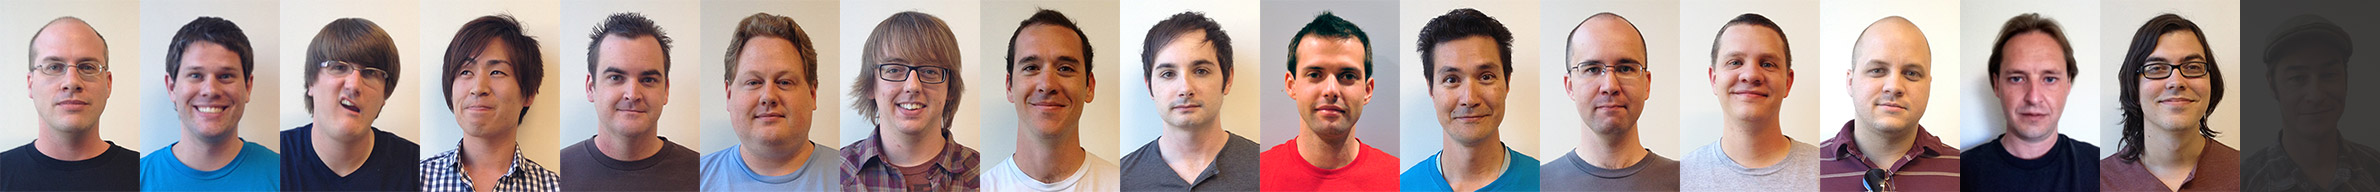
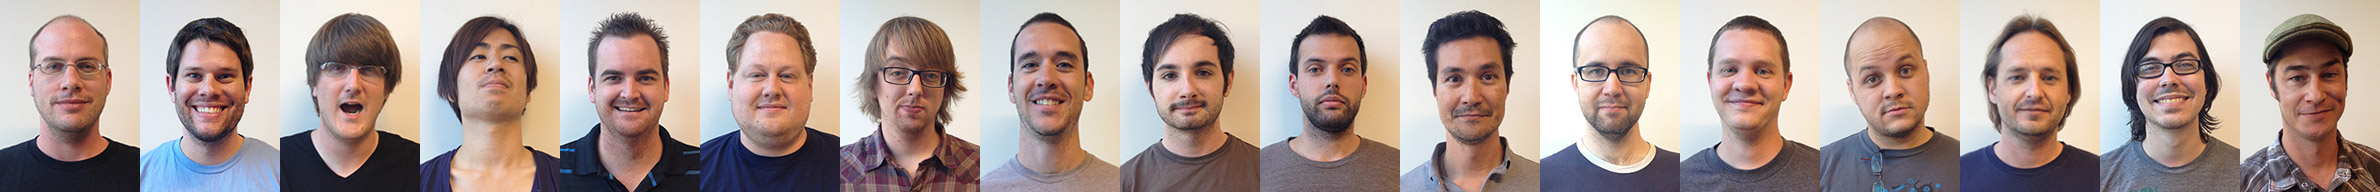
changing week numbers

diff --git a/css/global.css b/css/global.css
@@ -52,19 +52,19 @@ h2 {
 
 h1 span, h2 span { font-weight: 600; }
 
-#week1 h2 {
+#week0 h2 {
   background: -moz-linear-gradient(left, #341856 0%, #341856 4%, #8e58a4 46%, #8e58a4 58%, #341856 100%);
   background: -webkit-linear-gradient(left, #341856 0%,#341856 4%,#8e58a4 46%,#8e58a4 58%,#341856 100%);
   background: linear-gradient(to right, #341856 0%,#341856 4%,#753d8c 46%,#8e58a4 58%,#8e58a4 100%);
 }
 
-#week2 h2 {
+#week1 h2 {
   background: -moz-linear-gradient(left, #b8321b 0%, #b8321b 4%, #de6d23 46%, #de6d23 58%, #b8321b 100%);
   background: -webkit-linear-gradient(left, #b8321b 0%,#b8321b 4%,#de6d23 46%,#de6d23 58%,#b8321b 100%);
   background: linear-gradient(to right, #b8321b 0%,#b8321b 4%,#b8321b 46%,#de6d23 58%,#de6d23 100%);
 }
 
-#week3 h2 {
+#week2 h2 {
   background: -moz-linear-gradient(left, #05376f 0%, #05376f 4%, #206ec5 46%, #206ec5 58%, #05376f 100%);
   background: -webkit-linear-gradient(left, #05376f 0%,#05376f 4%,#206ec5 46%,#206ec5 58%,#05376f 100%);
   background: linear-gradient(to right, #05376f 0%,#05376f 4%,#05376f 46%,#206ec5 58%,#206ec5 100%);

diff --git a/index.html b/index.html
@@ -19,17 +19,17 @@
 
 <body>
 
-<section id="week3">
-  <a href="images/week3.jpg" title="Week3"><img src="images/week3.jpg" alt="Week3" /></a>
-  <h2><span>Week Three:</span> The Neck Beard</h2>
-</section>
 <section id="week2">
   <a href="images/week2.jpg" title="Week2"><img src="images/week2.jpg" alt="Week2" /></a>
-  <h2><span>Week Two:</span> The 5 O'Clock Shadow</h2>
+  <h2><span>Week Two:</span> The Neck Beard</h2>
 </section>
 <section id="week1">
   <a href="images/week1.jpg" title="Week1"><img src="images/week1.jpg" alt="Week1" /></a>
-  <h2><span>Week One:</span> The Clean Shave</h2>
+  <h2><span>Week One:</span> The 5 O'Clock Shadow</h2>
+</section>
+<section id="week0">
+  <a href="images/week0.jpg" title="Week0"><img src="images/week0.jpg" alt="Week0" /></a>
+  <h2><span>Week Zero:</span> The Clean Shave</h2>
 </section>
 <header>
   <h1>meltmedia <span>Beard Off 2012</span></h1>
